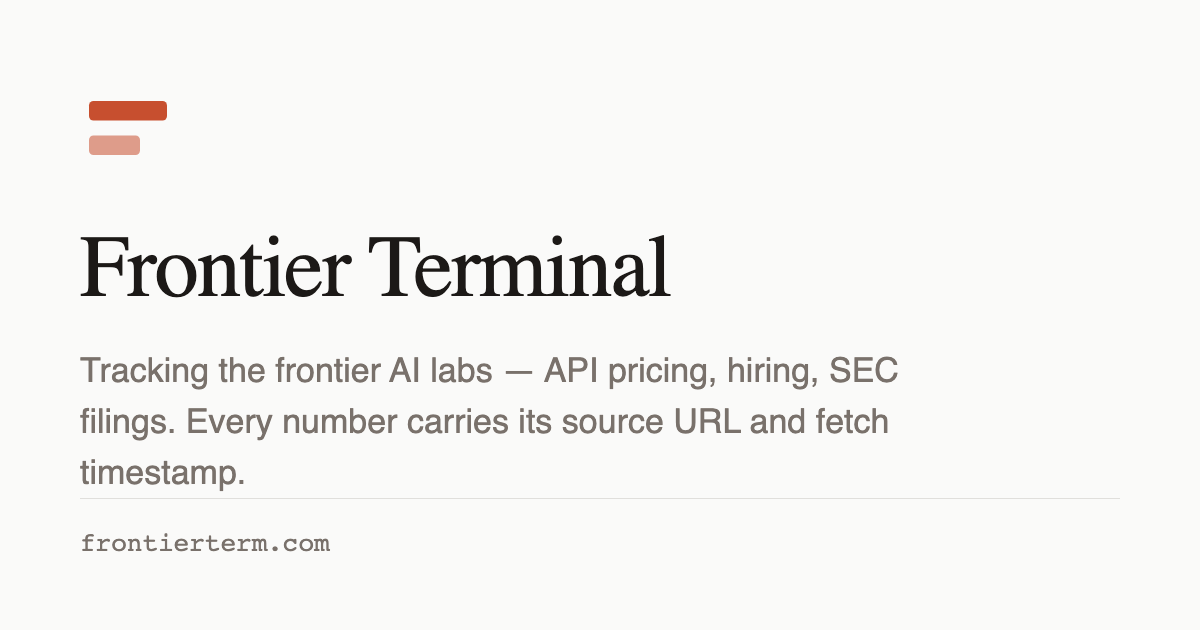
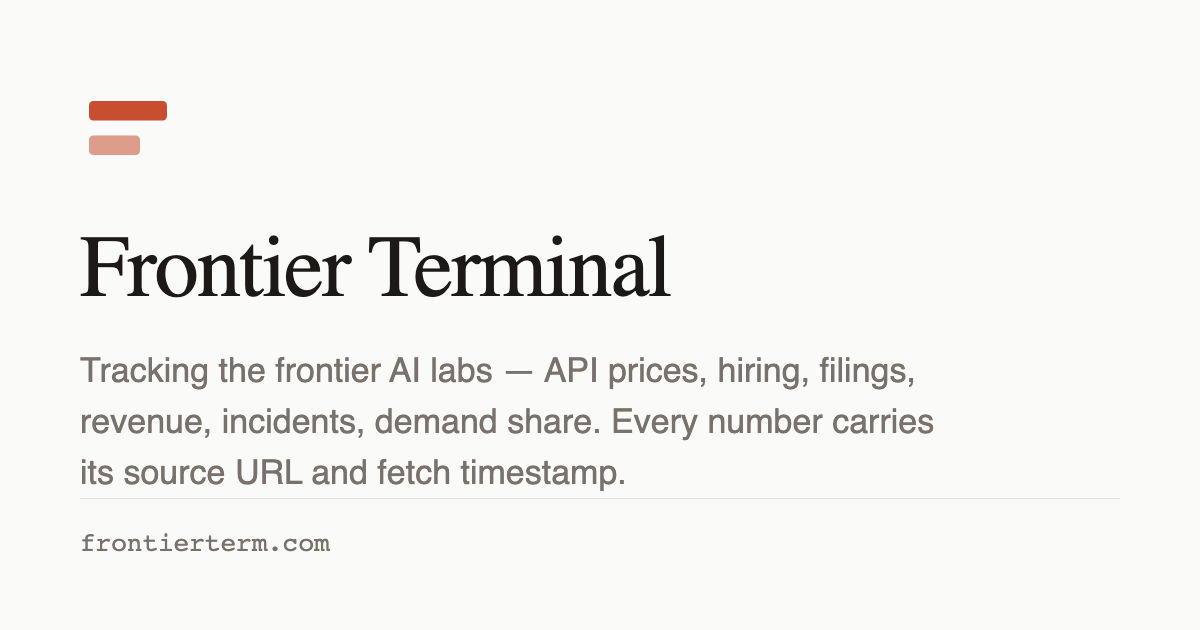
feat: the one-sentence claim names all six axes, not three (#31)
appDescription is rendered four ways — the landing meta description, the
llms.txt blockquote, the schema.org description and the About page's hero
line — and all four still said pricing, hiring, filings. og.png is cut from
the same string, so it is regenerated here.

Changed region(s): [[0.0617, 0.5429, 0.8017, 0.6937], [0.0617, 0.7238, 0.5242, 0.7841]]

diff --git a/nuxt.config.ts b/nuxt.config.ts
@@ -430,7 +430,7 @@ export default defineNuxtConfig({
       // description — so an answer engine reads the same claim everywhere
       // rather than three paraphrases it has to reconcile.
       appDescription:
-        'Tracking the frontier AI labs — API pricing, hiring, SEC filings. Every number carries its source URL and fetch timestamp.',
+        'Tracking the frontier AI labs — API prices, hiring, filings, revenue, incidents, demand share. Every number carries its source URL and fetch timestamp.',
       // The app's canonical public origin, no trailing slash. Absolute links in
       // sitemap.xml, robots.txt, and og: tags are built from this.
       appUrl: 'http://localhost:3000',
